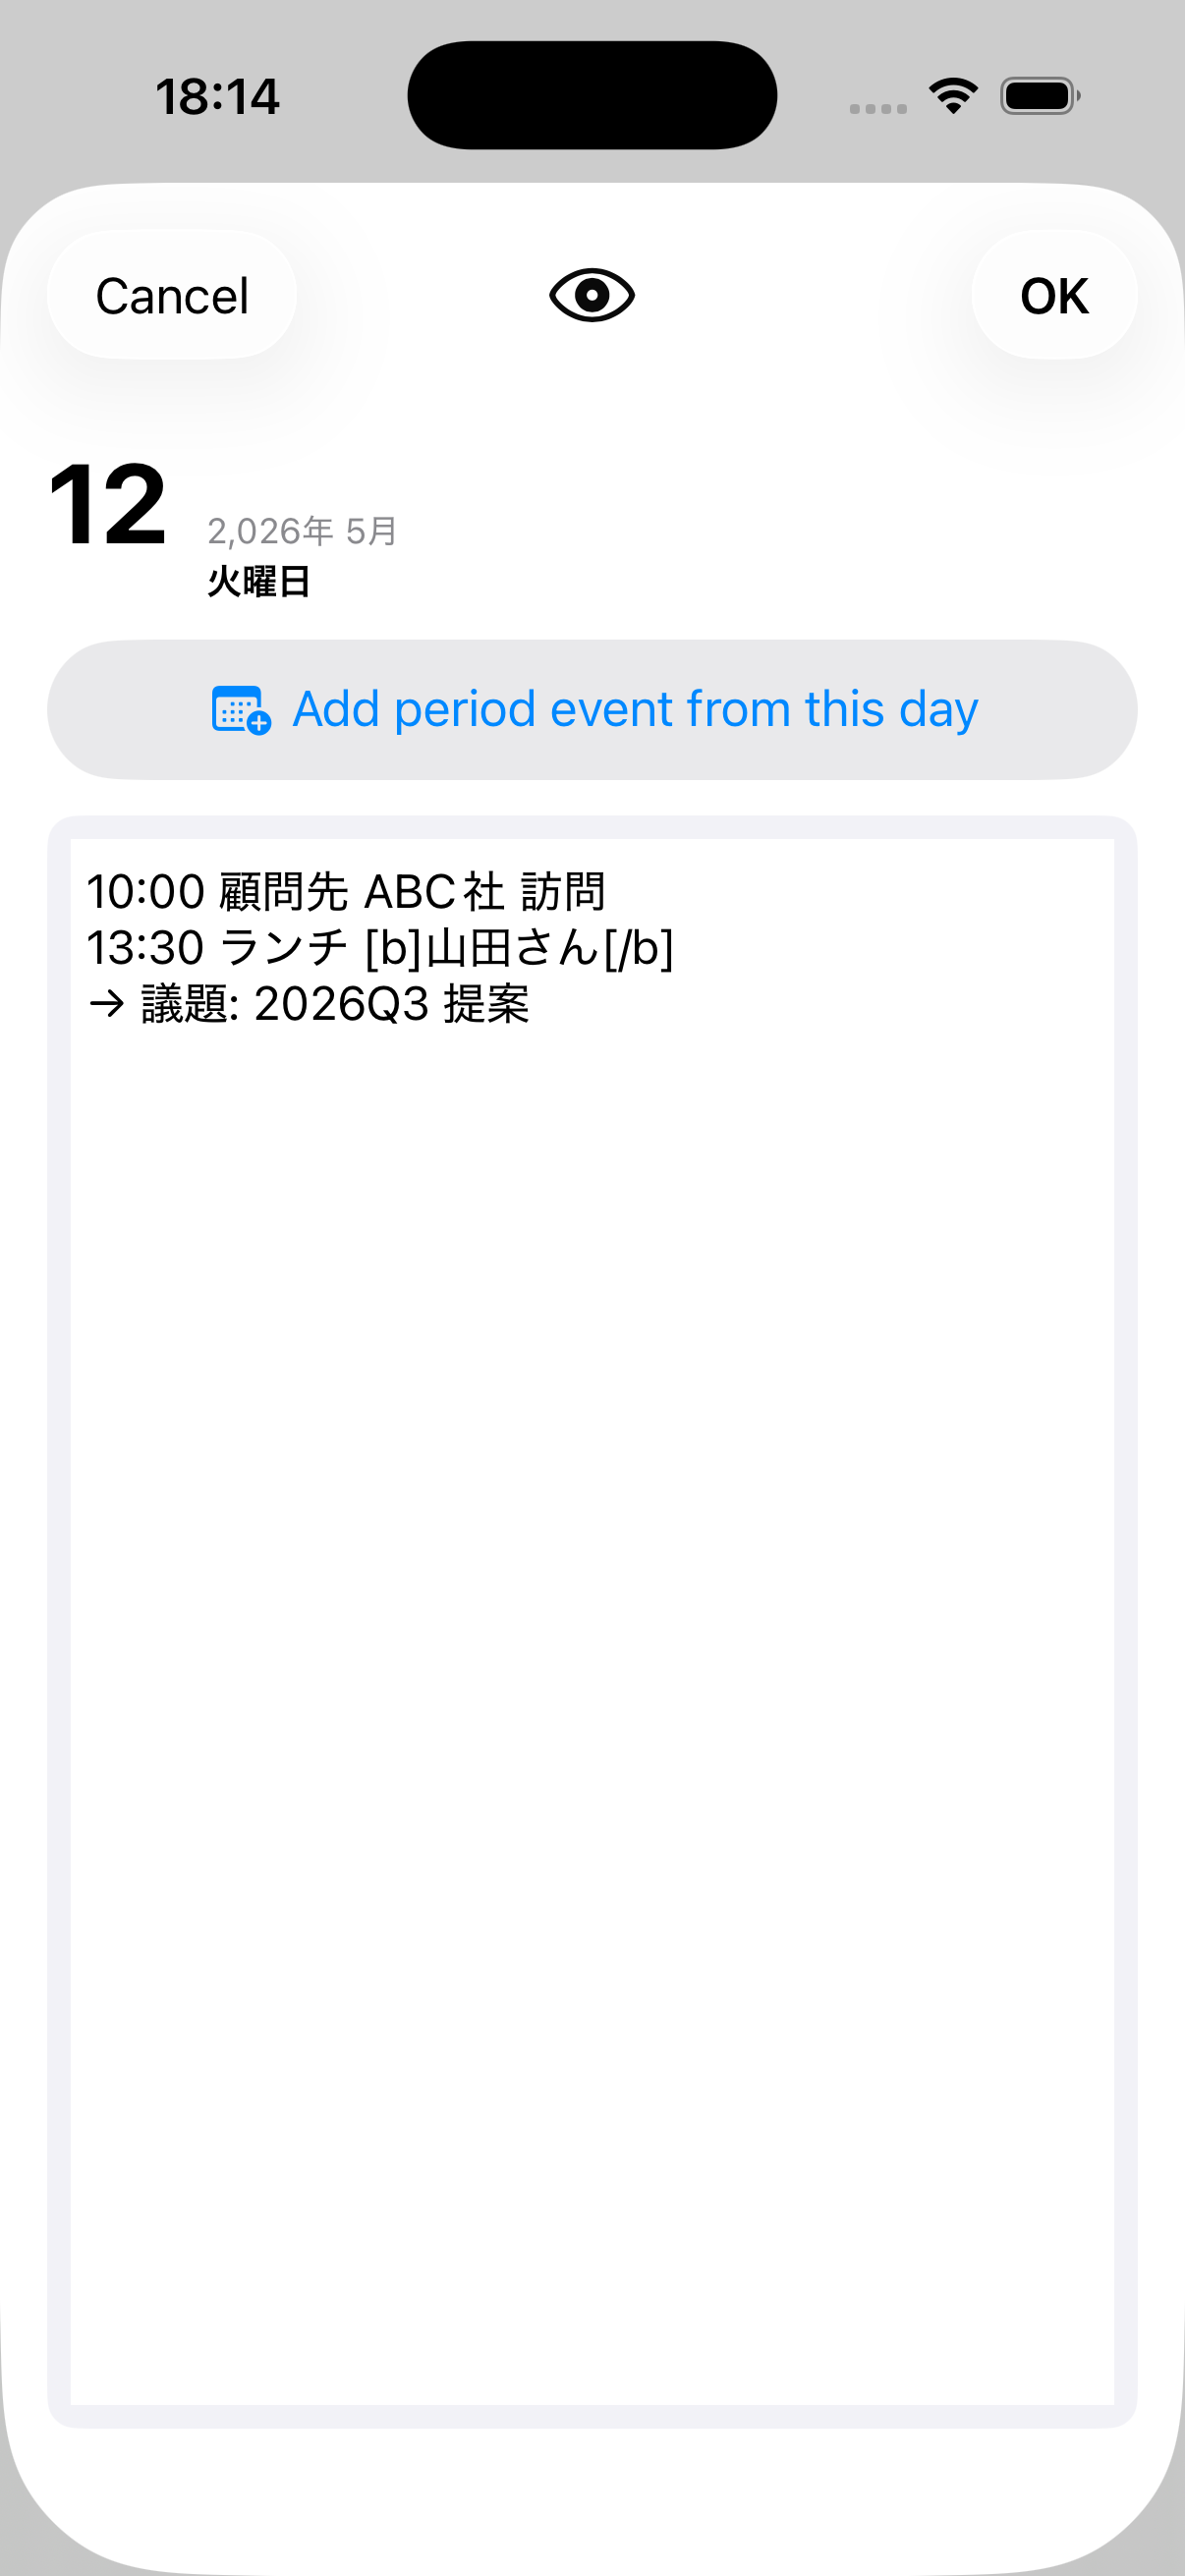
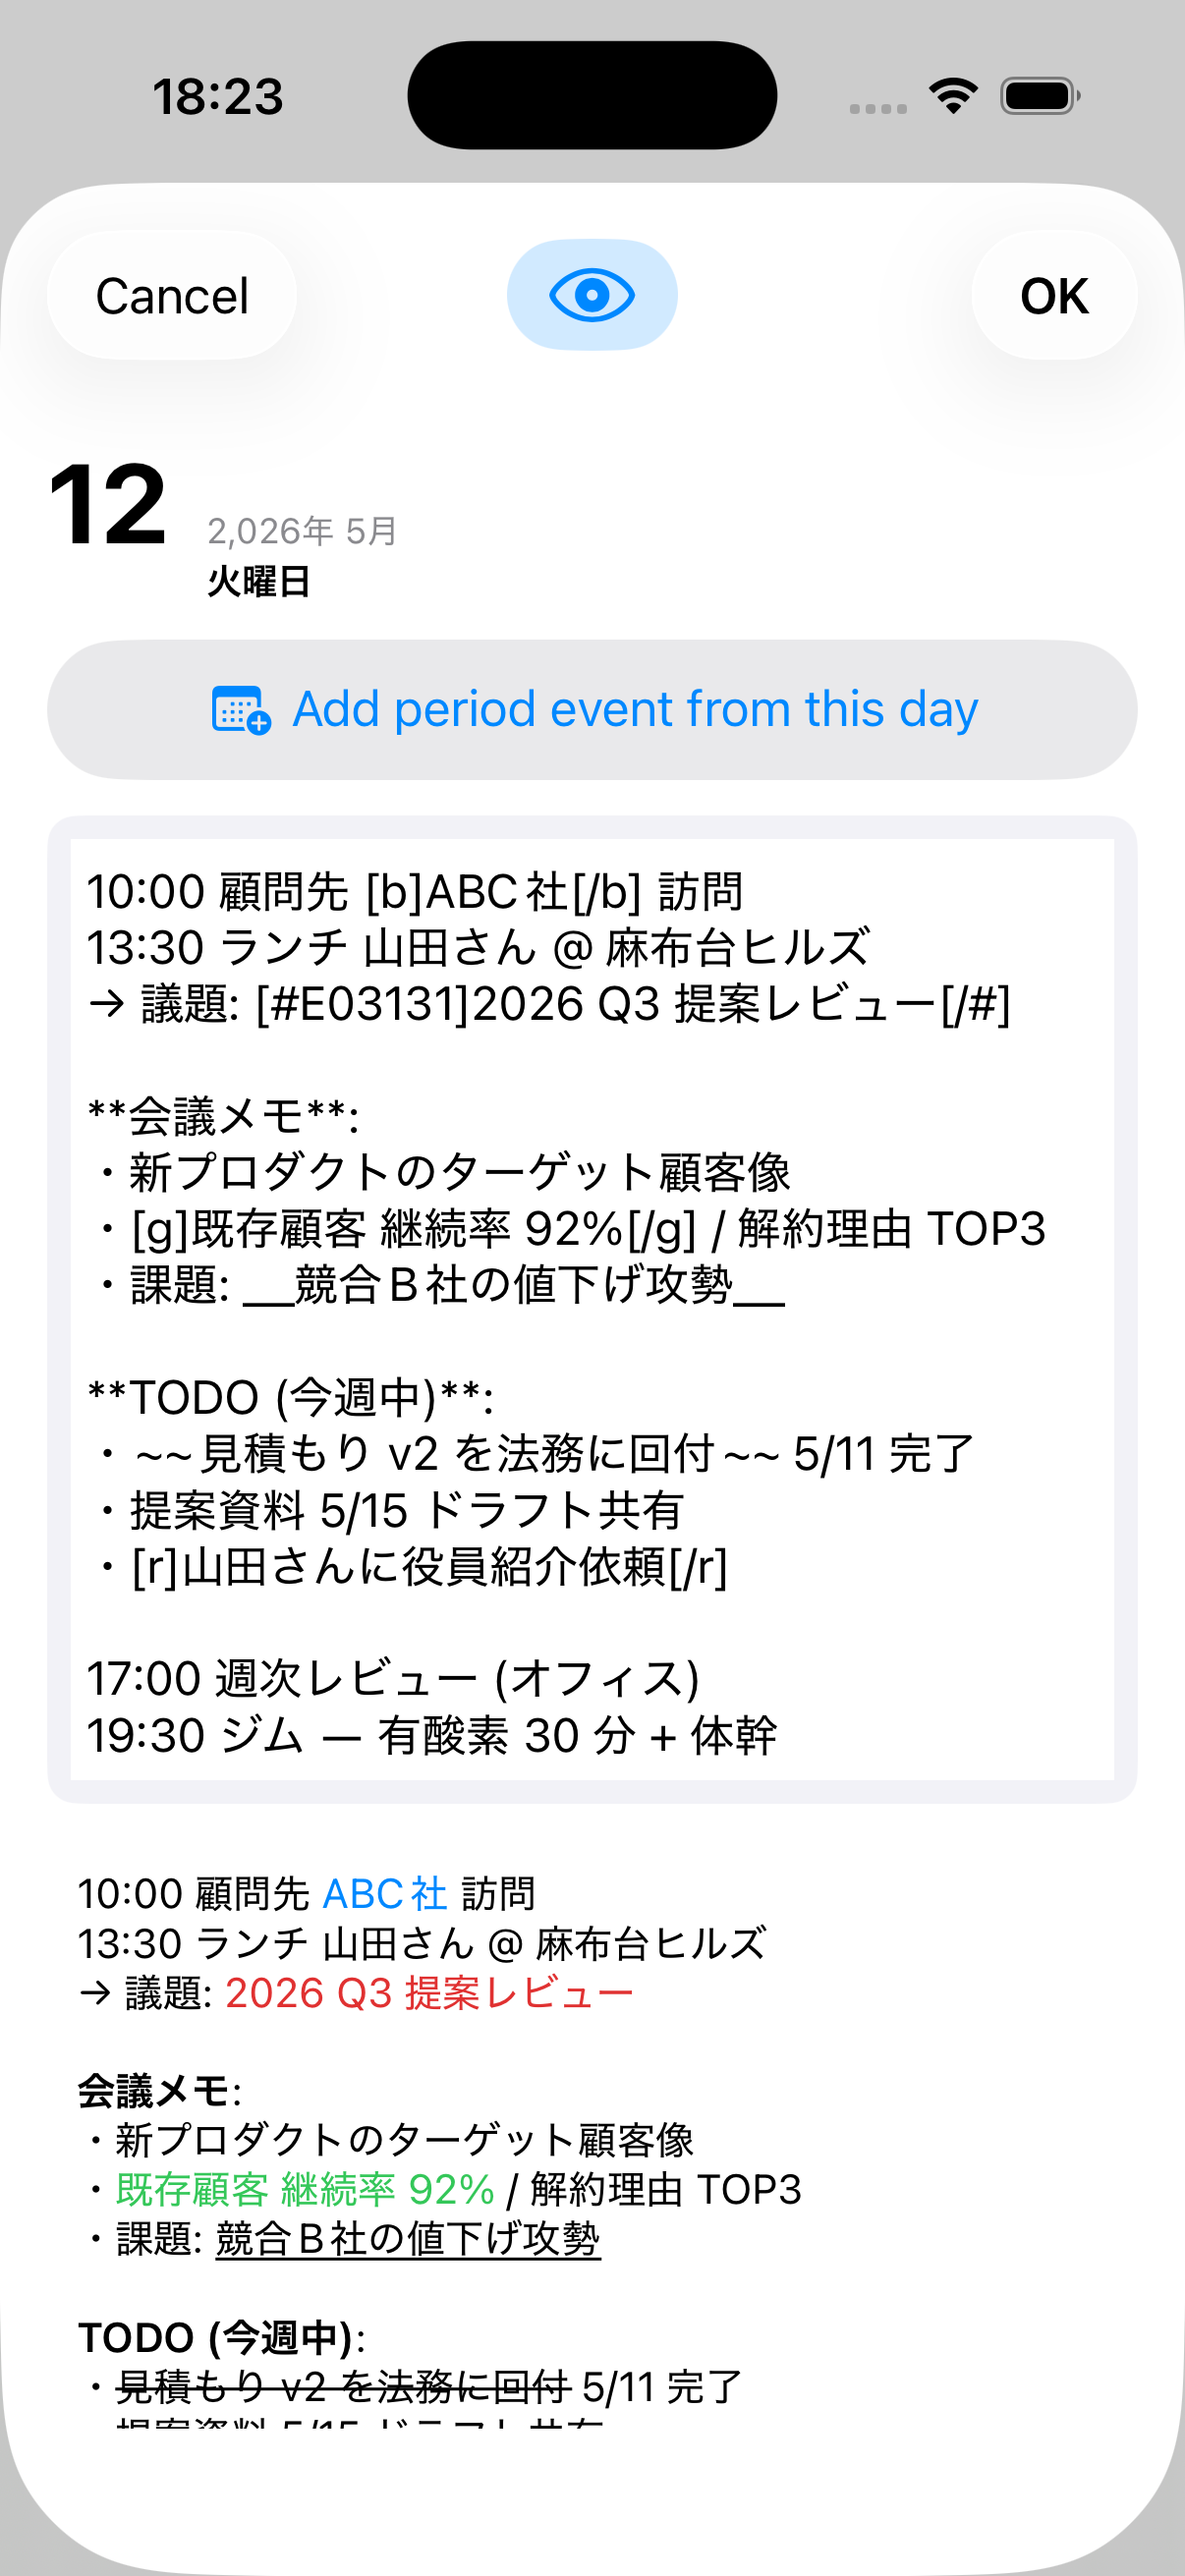
Add Mac screenshots section and enrich iPhone day-editor sample
iPhone day-editor now shows substantial rich-text content with the
preview pane toggled on, demonstrating both the writing experience
and the rendered formatting.

Add a Mac gallery (4 shots: grid, day editor, search, year/month
jump) above the iPhone gallery so visitors see the desktop UI too.
Each Mac shot is wrapped in a styled browser-frame card with
traffic-light dots.

diff --git a/en/index.html b/en/index.html
@@ -48,10 +48,58 @@
 
 <section id="preview" class="section preview-section">
   <div class="container">
-    <h2>Preview</h2>
-    <p class="section-lead">Real screenshots from dCal on iPhone with demo data
-      loaded. Colored bars show period events flowing across multiple weeks;
-      tap any day to drop into a full-screen note editor.</p>
+    <h2>Preview — Mac</h2>
+    <p class="section-lead">Real screenshots from dCal on macOS with demo data
+      loaded. Colored bars flow across week boundaries; each day cell shows
+      its own rich-text notes inline. Click any day to open the formatted
+      long-form editor.</p>
+    <div class="mac-gallery">
+      <figure class="mac-frame">
+        <div class="titlebar">
+          <span class="dot red"></span>
+          <span class="dot yellow"></span>
+          <span class="dot green"></span>
+        </div>
+        <img src="../assets/screenshots/mac-grid.png" loading="lazy"
+             alt="dCal Mac 4-week grid with period bars and in-cell day notes">
+        <figcaption>4-week grid · in-cell notes · period events</figcaption>
+      </figure>
+      <figure class="mac-frame">
+        <div class="titlebar">
+          <span class="dot red"></span>
+          <span class="dot yellow"></span>
+          <span class="dot green"></span>
+        </div>
+        <img src="../assets/screenshots/mac-day.png" loading="lazy"
+             alt="Day editor with rich-text markup and live preview pane">
+        <figcaption>Day editor — markup &amp; live preview</figcaption>
+      </figure>
+      <figure class="mac-frame">
+        <div class="titlebar">
+          <span class="dot red"></span>
+          <span class="dot yellow"></span>
+          <span class="dot green"></span>
+        </div>
+        <img src="../assets/screenshots/mac-search.png" loading="lazy"
+             alt="Full-text search across notes and period event titles">
+        <figcaption>Full-text search (⌘F)</figcaption>
+      </figure>
+      <figure class="mac-frame">
+        <div class="titlebar">
+          <span class="dot red"></span>
+          <span class="dot yellow"></span>
+          <span class="dot green"></span>
+        </div>
+        <img src="../assets/screenshots/mac-jump.png" loading="lazy"
+             alt="Date jump popover with year scroller and 12-month grid">
+        <figcaption>Jump to any date (⌘J)</figcaption>
+      </figure>
+    </div>
+
+    <h2 style="margin-top: 72px;">Preview — iPhone</h2>
+    <p class="section-lead">The same <code>.cal</code> file opens on iPhone.
+      If you sync via iCloud Drive or Dropbox, notes typed on Mac show up
+      instantly on iPhone with the same formatting tags.</p>
     <div class="phone-gallery">
       <figure class="phone-frame">
         <img src="../assets/screenshots/iphone-calendar.png" loading="lazy"
@@ -60,8 +108,8 @@
       </figure>
       <figure class="phone-frame">
         <img src="../assets/screenshots/iphone-day-editor.png" loading="lazy"
-             alt="Day editor modal — unlimited rich text per day">
-        <figcaption>Long-form day notes</figcaption>
+             alt="Day editor modal — markup with rendered preview below">
+        <figcaption>Long-form notes — markup + preview</figcaption>
       </figure>
       <figure class="phone-frame">
         <img src="../assets/screenshots/iphone-date-jump.png" loading="lazy"

diff --git a/index.html b/index.html
@@ -47,10 +47,58 @@
 
 <section id="preview" class="section preview-section">
   <div class="container">
-    <h2>画面プレビュー</h2>
-    <p class="section-lead">demo データを開いた iPhone での実画面。
-      色付き期間予定が複数週にまたがる帯として表示され、
-      日付ごとに長文メモを書き留めていく手帳感覚をご覧ください。</p>
+    <h2>画面プレビュー — Mac</h2>
+    <p class="section-lead">demo データを開いた macOS 版の実画面。
+      4 週連続グリッドの中に、色付き期間予定 (帯) と日付ごとのメモが
+      並んで表示されます。日付タップでフォーマット付きの長文メモ画面が
+      開きます。</p>
+    <div class="mac-gallery">
+      <figure class="mac-frame">
+        <div class="titlebar">
+          <span class="dot red"></span>
+          <span class="dot yellow"></span>
+          <span class="dot green"></span>
+        </div>
+        <img src="assets/screenshots/mac-grid.png" loading="lazy"
+             alt="dCal Mac 版の 4 週グリッド。期間予定と日付メモが並ぶ。">
+        <figcaption>4 週連続グリッド・日付内メモ・期間予定</figcaption>
+      </figure>
+      <figure class="mac-frame">
+        <div class="titlebar">
+          <span class="dot red"></span>
+          <span class="dot yellow"></span>
+          <span class="dot green"></span>
+        </div>
+        <img src="assets/screenshots/mac-day.png" loading="lazy"
+             alt="日付エディタ。書式付きテキスト編集 + プレビュー。">
+        <figcaption>日付エディタ — 書式付きテキスト + プレビュー</figcaption>
+      </figure>
+      <figure class="mac-frame">
+        <div class="titlebar">
+          <span class="dot red"></span>
+          <span class="dot yellow"></span>
+          <span class="dot green"></span>
+        </div>
+        <img src="assets/screenshots/mac-search.png" loading="lazy"
+             alt="全文検索。メモと期間予定タイトルを横断検索。">
+        <figcaption>全文検索 (⌘F)</figcaption>
+      </figure>
+      <figure class="mac-frame">
+        <div class="titlebar">
+          <span class="dot red"></span>
+          <span class="dot yellow"></span>
+          <span class="dot green"></span>
+        </div>
+        <img src="assets/screenshots/mac-jump.png" loading="lazy"
+             alt="日付ジャンプポップオーバー。年スクロール + 12 か月。">
+        <figcaption>任意の日付へジャンプ (⌘J)</figcaption>
+      </figure>
+    </div>
+
+    <h2 style="margin-top: 72px;">画面プレビュー — iPhone</h2>
+    <p class="section-lead">iPhone 版でも同じ <code>.cal</code> ファイルを開けます。
+      iCloud Drive・Dropbox 経由なら Mac で書いたメモがそのまま iPhone でも
+      読めます。タップで開く編集画面では、Mac 版と同じ書式タグが使えます。</p>
     <div class="phone-gallery">
       <figure class="phone-frame">
         <img src="assets/screenshots/iphone-calendar.png" loading="lazy"
@@ -59,8 +107,8 @@
       </figure>
       <figure class="phone-frame">
         <img src="assets/screenshots/iphone-day-editor.png" loading="lazy"
-             alt="日付タップで開く編集モーダル。長文メモが書ける。">
-        <figcaption>長文メモ編集</figcaption>
+             alt="日付タップで開く編集モーダル。書式タグとプレビューが並ぶ。">
+        <figcaption>長文メモ — 書式 + プレビュー</figcaption>
       </figure>
       <figure class="phone-frame">
         <img src="assets/screenshots/iphone-date-jump.png" loading="lazy"

diff --git a/assets/style.css b/assets/style.css
@@ -214,6 +214,60 @@ pre code { background: transparent; padding: 0; color: inherit; }
     .phone-row, .phone-gallery { gap: 18px; }
 }
 
+/* ===== Mac screenshot gallery =====
+   Mac shots are wider than tall — they're captured from the app's own
+   content view (no titlebar), so we wrap them in a minimal browser-style
+   frame with three traffic-light dots to read as a desktop window. */
+
+.mac-gallery {
+    display: grid;
+    grid-template-columns: repeat(auto-fit, minmax(420px, 1fr));
+    gap: 28px;
+    margin-top: 8px;
+}
+
+.mac-frame {
+    background: var(--bg);
+    border-radius: 12px;
+    overflow: hidden;
+    box-shadow:
+        0 30px 60px -20px rgba(15, 23, 42, 0.20),
+        0 0 0 1px var(--border);
+    margin: 0;
+}
+.mac-frame .titlebar {
+    background: linear-gradient(180deg, #f3f4f6, #e5e7eb);
+    border-bottom: 1px solid var(--border);
+    padding: 9px 14px;
+    display: flex;
+    align-items: center;
+    gap: 6px;
+}
+.mac-frame .dot {
+    width: 12px;
+    height: 12px;
+    border-radius: 50%;
+    display: inline-block;
+}
+.mac-frame .dot.red    { background: #ff5f57; }
+.mac-frame .dot.yellow { background: #febc2e; }
+.mac-frame .dot.green  { background: #28c840; }
+.mac-frame img {
+    width: 100%;
+    display: block;
+}
+.mac-frame figcaption {
+    font-size: 13px;
+    color: var(--text-muted);
+    text-align: center;
+    padding: 12px 8px;
+    font-weight: 500;
+}
+
+@media (max-width: 640px) {
+    .mac-gallery { grid-template-columns: 1fr; gap: 18px; }
+}
+
 /* ===== Compare table ===== */
 
 .compare {